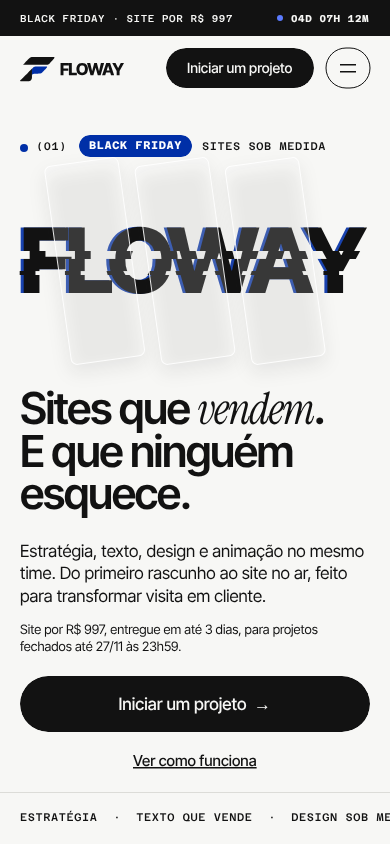
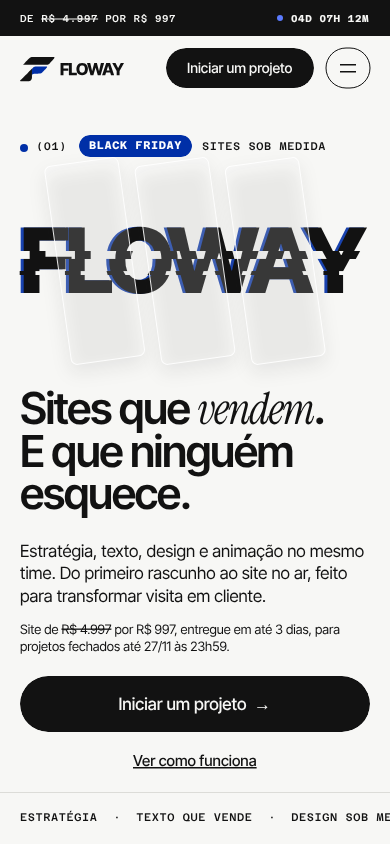
docs: registro do Incluso (R-05), oferta de R$ 4.997 por R$ 997 e menu da leva 1

diff --git a/processo/requisitos.md b/processo/requisitos.md
@@ -36,7 +36,7 @@ Telas: desenhadas no **Penpot** (decisão da pessoa, no lugar do Figma do métod
 ## R-02 · Cabeçalho com o botão de contato sempre à mão
 
 - **História:** como visitante decidido no meio da página, quero pedir um projeto sem voltar ao topo.
-- **Regras de negócio:** logo da Floway (arquivos de `assets/brand/` da identidade), links para as seções e o botão "Iniciar um projeto" sempre visível; no celular, menu recolhido com o botão fora dele.
+- **Regras de negócio:** logo da Floway (arquivos de `assets/brand/` da identidade), links para as seções (na leva 1, só Incluso, Conceitos e Perguntas; decisão da pessoa em 2026-11-22) e o botão "Iniciar um projeto" sempre visível; no celular, menu recolhido com o botão fora dele.
 - **Casos de erro:** o cabeçalho nunca cobre o título de uma seção ao navegar pelos links.
 - **Critérios de aceite:**
   - [ ] o botão fica visível em qualquer ponto da rolagem, no celular e no desktop
@@ -76,12 +76,12 @@ Telas: desenhadas no **Penpot** (decisão da pessoa, no lugar do Figma do métod
 ## R-05 · O que está incluso
 
 - **História:** como comprador, quero saber exatamente o que recebo, para comparar com outras opções.
-- **Regras de negócio:** estratégia e estrutura, texto que vende, design sob medida, animação e 3D, site rápido e no Google, medição; cartões que se encaixam como peças na rolagem.
+- **Regras de negócio:** é o único trecho escuro da página e o bloco de venda da oferta (R-12): preço com âncora ("De R$ 4.997" riscado, −80%, "por R$ 997"), título "Um site completo. Do jeito que você quer. Em até 3 dias.", a contagem em caixas, a lista "Tudo isso por R$ 997" (estrutura pensada para vender; texto que convence; design sob medida, celular e computador; animações com a assinatura Floway; rápido e pronto para o Google; botão, formulário e WhatsApp funcionando) e o botão "Quero meu site por R$ 997". Itens e textos aprovados pela pessoa em 2026-11-22.
 - **Casos de erro:** preço e prazo só os da oferta de R-12, enquanto ela valer; nenhum outro preço ou prazo.
 - **Critérios de aceite:**
   - [ ] cada item tem título e uma frase; nenhum destes termos aparece sem uma frase que o explique: SEO, WebGL, 3D, CRM, conversão
 - **Dependências:** R-11.
-- **Telas:** `Incluso · celular`, `Incluso · desktop`.
+- **Telas:** `Incluso · celular`, `Incluso · desktop` (Penpot), registro em `processo/telas/`.
 - **Peso:** valor alto; esforço M; risco baixo.
 - **Prioridade proposta:** 4 (leva 1).
 - **Fora do escopo:** tabela de preços (o único preço é o da oferta de R-12).
@@ -146,7 +146,7 @@ Telas: desenhadas no **Penpot** (decisão da pessoa, no lugar do Figma do métod
 - **Casos de erro:** sem WebGL ou com movimento reduzido, o "F" aparece estático.
 - **Critérios de aceite:**
   - [ ] o botão segue a captura aprovada da seção em `processo/telas/` (posição, tamanho e cor)
-- **Dependências:** R-01; destino do botão (pessoa) — sem ele a leva 1 não converte, então precisa estar definido antes da publicação de 27/11.
+- **Dependências:** R-01; destino do botão: o formulário da Floway, que a pessoa está terminando (decisão de 2026-11-22: esperar o formulário, sem alternativa); precisa estar pronto antes da publicação de 27/11.
 - **Telas:** `Chamada final · celular`, `Chamada final · desktop`.
 - **Peso:** valor alto (é a conversão); esforço G (esfera); risco médio (destino pendente).
 - **Prioridade proposta:** 7 (leva 1), desenhada junto do hero porque repete a linguagem dele.
@@ -166,8 +166,8 @@ Telas: desenhadas no **Penpot** (decisão da pessoa, no lugar do Figma do métod
 ## R-12 · Urgência da Black Friday
 
 - **História:** como empresa que está pensando em ter um site, quero saber que existe uma condição que acaba logo, para decidir agora.
-- **Regras de negócio:** a oferta, definida pela pessoa em 2026-11-22: **site por R$ 997, entregue em até 3 dias, para projetos fechados até 27/11/2026 às 23h59** (horário de Brasília). Faixa fixa no topo com a oferta e a contagem regressiva até esse momento; selo "Black Friday" e a linha da condição no hero; a chamada final repete a condição. A contagem é real, calculada do relógio do visitante contra o fim em horário de Brasília (risco aceito: relógio errado no aparelho do visitante mostra a contagem errada); nada de contagem que reinicia. **Fim exato (chamada da Lead, a confirmar):** a oferta vale até 27/11/2026 23h59min59s (UTC−3) e some a partir de 28/11/2026 00h00min00s. A contagem arredonda para cima, para nunca mostrar zero enquanto vale.
-- **Textos exatos:** faixa no desktop "Black Friday · Site por R$ 997, entregue em até 3 dias · até 27/11 às 23h59"; faixa no celular "Black Friday · Site por R$ 997"; linha do hero e chamada final "Site por R$ 997, entregue em até 3 dias, para projetos fechados até 27/11 às 23h59."; cartão da oferta (R-05) "R$ 997 · Site completo, entregue em até 3 dias. Para projetos fechados até 27/11 às 23h59."
+- **Regras de negócio:** a oferta, definida pela pessoa em 2026-11-22: **site de R$ 4.997 por R$ 997** (R$ 4.997 é o preço real cobrado hoje, confirmado pela pessoa), **um site do tipo que o cliente quiser** (landing page, institucional ou outro), **entregue em até 3 dias contados a partir do fechamento do material com o cliente**, para projetos fechados até 27/11/2026 às 23h59 (horário de Brasília). O desconto mostrado é −80% (997 sobre 4.997). Faixa fixa no topo com a oferta e a contagem regressiva até esse momento; selo "Black Friday" e a linha da condição no hero; a chamada final repete a condição. A contagem é real, calculada do relógio do visitante contra o fim em horário de Brasília (risco aceito: relógio errado no aparelho do visitante mostra a contagem errada); nada de contagem que reinicia. **Fim exato (chamada da Lead, a confirmar):** a oferta vale até 27/11/2026 23h59min59s (UTC−3) e some a partir de 28/11/2026 00h00min00s. A contagem arredonda para cima, para nunca mostrar zero enquanto vale.
+- **Textos exatos** (o "R$ 4.997" sempre riscado): faixa no desktop "Black Friday · Site de R$ 4.997 por R$ 997, entregue em até 3 dias · até 27/11 às 23h59"; faixa no celular "De R$ 4.997 por R$ 997"; linha do hero no desktop "De R$ 4.997 por R$ 997 · entrega em até 3 dias · até 27/11 às 23h59."; linha do hero no celular "Site de R$ 4.997 por R$ 997, entregue em até 3 dias, para projetos fechados até 27/11 às 23h59."; Incluso (R-05) "De R$ 4.997 −80% por R$ 997 · Um site completo. Do jeito que você quer. Em até 3 dias." e "Para projetos fechados até 27/11 às 23h59. Os 3 dias contam a partir do fechamento do material com você."; chamada final (R-10) a definir no desenho dela, com os mesmos valores.
 - **Casos de erro:** depois do fim, a faixa, o selo e a linha da condição somem e o hero volta à versão aprovada sem a oferta (nunca "00d 00h 00m" parado na tela); sem JavaScript, a faixa mostra os mesmos textos sem a contagem (a data já está no texto); como o site é estático, uma publicação em 28/11 a partir de 00h00 tira a oferta do HTML (tarefa de publicação, aprovada pela pessoa como as outras).
 - **Critérios de aceite:**
   - [ ] com o relógio em 27/11/2026 23h58min30s (UTC−3), a contagem mostra 2 minutos no celular ("00d 00h 02m") e 1 min 30 s no desktop; em 28/11/2026 00h00min00s, a oferta não aparece
@@ -177,5 +177,4 @@ Telas: desenhadas no **Penpot** (decisão da pessoa, no lugar do Figma do métod
 - **Telas:** `Hero · celular · Black Friday`, `Hero · desktop · Black Friday` (Penpot), registro em `processo/telas/`.
 - **Peso:** valor alto (urgência da campanha); esforço M; risco médio (fuso horário e oferta que precisa sumir na hora certa).
 - **Prioridade proposta:** 3, logo depois do hero e do cabeçalho.
-- **Pendente da pessoa:** o que os R$ 997 cobrem (quantas páginas, se vale para landing page e para site, quais itens de R-05) e quando começam os 3 dias.
 - **Fora do escopo:** limite de vagas (a pessoa não definiu); cupom ou pagamento na página.

diff --git a/processo/telas/README.md b/processo/telas/README.md
@@ -5,9 +5,12 @@ O registro das telas aprovadas pela pessoa (decisão 015 do método). **Neste pr
 | Tela (frame) | Requisitos | Estados | Aprovada em | Link do frame |
 |---|---|---|---|---|
 | `Hero · celular` (390×844) · [captura](R-01-hero-celular.png) | R-01, R-02, R-11 | padrão (movimento e reduzido nas notas) | 2026-11-22 | [board `1fcd2bb1-9bc7-80d1-8008-fcb85f1d0e2e`](https://design.penpot.app/#/workspace?file-id=7b7d55f9-965b-8000-8008-fa27170dff9f&page-id=1fcd2bb1-9bc7-80d1-8008-fcb784618a4f) |
-| `Hero · desktop` (1440×900) · [captura](R-01-hero-desktop.png) | R-01, R-02, R-11 | padrão (movimento e reduzido nas notas) | 2026-11-22 | [board `1fcd2bb1-9bc7-80d1-8008-fcb8604153d8`](https://design.penpot.app/#/workspace?file-id=7b7d55f9-965b-8000-8008-fa27170dff9f&page-id=1fcd2bb1-9bc7-80d1-8008-fcb784618a4f) |
+| `Hero · desktop` (1440×900) · [captura](R-01-hero-desktop.png) | R-01, R-02, R-11 | padrão (movimento e reduzido nas notas); menu só com Incluso, Conceitos e Perguntas na leva 1 | 2026-11-22 (menu revisto em 2026-11-22, decisão da pessoa) | [board `1fcd2bb1-9bc7-80d1-8008-fcb8604153d8`](https://design.penpot.app/#/workspace?file-id=7b7d55f9-965b-8000-8008-fa27170dff9f&page-id=1fcd2bb1-9bc7-80d1-8008-fcb784618a4f) |
 | `Notas · Hero` · [captura](R-01-hero-notas.png) | R-01, R-02 | entrada, rolagem, mouse, reduzido, sem WebGL | 2026-11-22 | [board `1fcd2bb1-9bc7-80d1-8008-fcb85f14a794`](https://design.penpot.app/#/workspace?file-id=7b7d55f9-965b-8000-8008-fa27170dff9f&page-id=1fcd2bb1-9bc7-80d1-8008-fcb784618a4f) |
-| `Hero · celular · Black Friday` · [captura](R-12-hero-black-friday-celular.png) | R-01, R-02, R-12 | com a oferta (textos exatos em R-12); depois de 27/11/2026 23h59 (UTC−3) volta ao `Hero · celular` | 2026-11-22 | [board `6b4ebc23-c79b-80c7-8008-fcba103917a3`](https://design.penpot.app/#/workspace?file-id=7b7d55f9-965b-8000-8008-fa27170dff9f&page-id=1fcd2bb1-9bc7-80d1-8008-fcb784618a4f) |
-| `Hero · desktop · Black Friday` · [captura](R-12-hero-black-friday-desktop.png) | R-01, R-02, R-12 | com a oferta (textos exatos em R-12); depois de 27/11/2026 23h59 (UTC−3) volta ao `Hero · desktop` | 2026-11-22 | [board `6b4ebc23-c79b-80c7-8008-fcba10fa9dae`](https://design.penpot.app/#/workspace?file-id=7b7d55f9-965b-8000-8008-fa27170dff9f&page-id=1fcd2bb1-9bc7-80d1-8008-fcb784618a4f) |
+| `Hero · celular · Black Friday` · [captura](R-12-hero-black-friday-celular.png) | R-01, R-02, R-12 | com a oferta "de R$ 4.997 por R$ 997" (textos exatos em R-12); depois de 27/11/2026 23h59 (UTC−3) volta ao `Hero · celular` | 2026-11-22 (preço de referência revisto no mesmo dia) | [board `6b4ebc23-c79b-80c7-8008-fcba103917a3`](https://design.penpot.app/#/workspace?file-id=7b7d55f9-965b-8000-8008-fa27170dff9f&page-id=1fcd2bb1-9bc7-80d1-8008-fcb784618a4f) |
+| `Hero · desktop · Black Friday` · [captura](R-12-hero-black-friday-desktop.png) | R-01, R-02, R-12 | com a oferta "de R$ 4.997 por R$ 997" (textos exatos em R-12); depois de 27/11/2026 23h59 (UTC−3) volta ao `Hero · desktop` | 2026-11-22 (preço de referência e menu revistos no mesmo dia) | [board `6b4ebc23-c79b-80c7-8008-fcba10fa9dae`](https://design.penpot.app/#/workspace?file-id=7b7d55f9-965b-8000-8008-fa27170dff9f&page-id=1fcd2bb1-9bc7-80d1-8008-fcb784618a4f) |
+| `Incluso · celular` (390 de largura) · [captura](R-05-incluso-celular.png) | R-05, R-12, R-11 | com a oferta (trecho escuro) | 2026-11-22 | [board `d8b64683-43d4-8005-8008-fcc053c83bd1`](https://design.penpot.app/#/workspace?file-id=7b7d55f9-965b-8000-8008-fa27170dff9f&page-id=1fcd2bb1-9bc7-80d1-8008-fcb784618a4f) |
+| `Incluso · desktop` (1440 de largura) · [captura](R-05-incluso-desktop.png) | R-05, R-12, R-11 | com a oferta (trecho escuro) | 2026-11-22 | [board `d8b64683-43d4-8005-8008-fcc058b2a864`](https://design.penpot.app/#/workspace?file-id=7b7d55f9-965b-8000-8008-fa27170dff9f&page-id=1fcd2bb1-9bc7-80d1-8008-fcb784618a4f) |
+| `Notas · Incluso` · [captura](R-05-incluso-notas.png) | R-05, R-12 | passagem, glitch do preço, contagem, hover, fim da oferta, reduzido | 2026-11-22 | [board `d8b64683-43d4-8005-8008-fcbf452f68d1`](https://design.penpot.app/#/workspace?file-id=7b7d55f9-965b-8000-8008-fa27170dff9f&page-id=1fcd2bb1-9bc7-80d1-8008-fcb784618a4f) |
 
 Tokens: [`tokens.json`](tokens.json) (conjunto `Floway` do Penpot). Componentes: [`design-system.md`](design-system.md).

diff --git a/processo/memoria-do-projeto.md b/processo/memoria-do-projeto.md
@@ -76,3 +76,8 @@ Mantenha **uma linha por memória** no índice (`MEMORY.md`), com um gancho que 
 - **Prazo:** a página precisa estar no ar antes de 27/11. A pessoa aprovou a **versão enxuta** (hero, incluso, conceitos, perguntas, chamada final); dor, virada, processo e "por que a Floway" ficam para a segunda leva.
 - **Ferramenta (2026-11-22):** a pessoa decidiu "não utilize o codex, somente o claude". Todos os papéis no Claude Code; a revisão cruzada vira revisão com contexto limpo por outra sessão do Claude Code no Orca. A revisão do Codex dos PRs #1 e #2 tinha parado no limite de uso do Codex e foi encerrada (`worker-stop`).
 - **Onde parou (2026-11-22):** PR #1 (requisitos R-01 a R-12, leva 1, só Claude Code) integrado; hero e hero Black Friday registrados neste PR; seção Incluso (R-05) desenhada no Penpot, esperando aprovação e a resposta da pessoa sobre o que os R$ 997 cobrem, quando começam os 3 dias e o destino do botão.
+
+**2026-11-22 · Incluso e oferta (Lead, Claude Code)**
+
+- **Decisões da pessoa:** oferta "de R$ 4.997 por R$ 997" (R$ 4.997 é o preço real cobrado hoje); o R$ 997 vale para um site do tipo que o cliente quiser; os 3 dias contam a partir do fechamento do material com o cliente; os botões esperam o formulário da Floway (sem WhatsApp como alternativa); menu da leva 1 só com Incluso, Conceitos e Perguntas. Seção Incluso (R-05) aprovada, mais agressiva, como o único trecho escuro.
+- **Onde parou:** Incluso e hero revistos registrados; próximo desenho é Conceitos (R-06), com as 5 peças do site oficial.

diff --git a/processo/telas/design-system.md b/processo/telas/design-system.md
@@ -21,3 +21,8 @@ Catálogo do que existe no Penpot (conjunto de tokens `Floway`, cores da bibliot
 | Faixa de benefícios | — | rolando; parada no reduzido | 52 de altura, linha `cor.cinza-claro` no topo, Azeret Mono 11 |
 | Faixa de urgência | celular (oferta curta + dias, horas, minutos), desktop (oferta completa + segundos) | contando; some ao zerar | 36/40 de altura, `cor.preto`, Azeret Mono 10–11 `cor.claro`, ponto `cor.azul-no-escuro` |
 | Selo Black Friday | celular: "(01) [Black Friday] Sites sob medida" (texto curto por espaço); desktop: texto inteiro | só durante a oferta | pílula `cor.azul`, Azeret Mono 700 11 `cor.papel`, 22 de altura |
+| Trecho escuro (Incluso) | — | único trecho escuro da landing | fundo `cor.preto`, texto `cor.claro`, apoio `cor.cinza-claro`, detalhe `cor.azul-no-escuro`, linhas #3A3A3A |
+| Preço com âncora | "De R$ 4.997" riscado + selo "−80%" (`cor.azul-no-escuro`, texto `cor.preto`) + "por" (Instrument Serif itálico) | só durante a oferta | Inter Tight 500 28/40; preço Inter Tight 800 com o glitch da palavra FLOWAY |
+| Contagem em caixas | dias, horas, min, seg | contando; some no fim da oferta | 4 caixas com contorno #3A3A3A, raio 10, número Inter Tight 700 34/52 |
+| Lista com ✓ | — | os itens se marcam um depois do outro ao rolar | ✓ `cor.azul-no-escuro`, Inter Tight 500 18–21, linhas #3A3A3A |
+| Botão claro | sobre o escuro (`cor.claro`, texto `cor.preto`) | padrão; hover cresce 2 % | 60/68 de altura |
